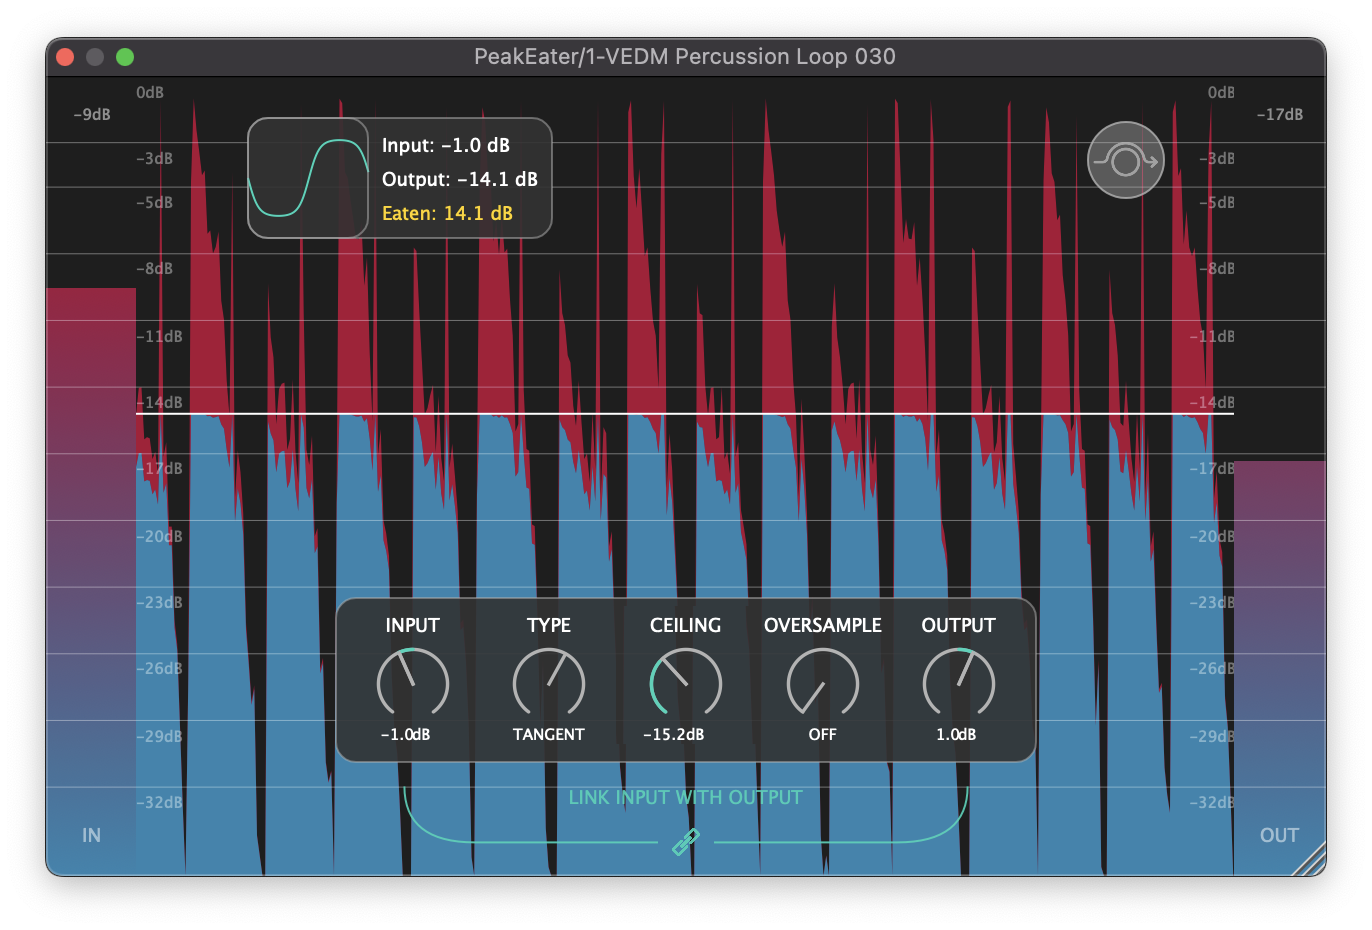
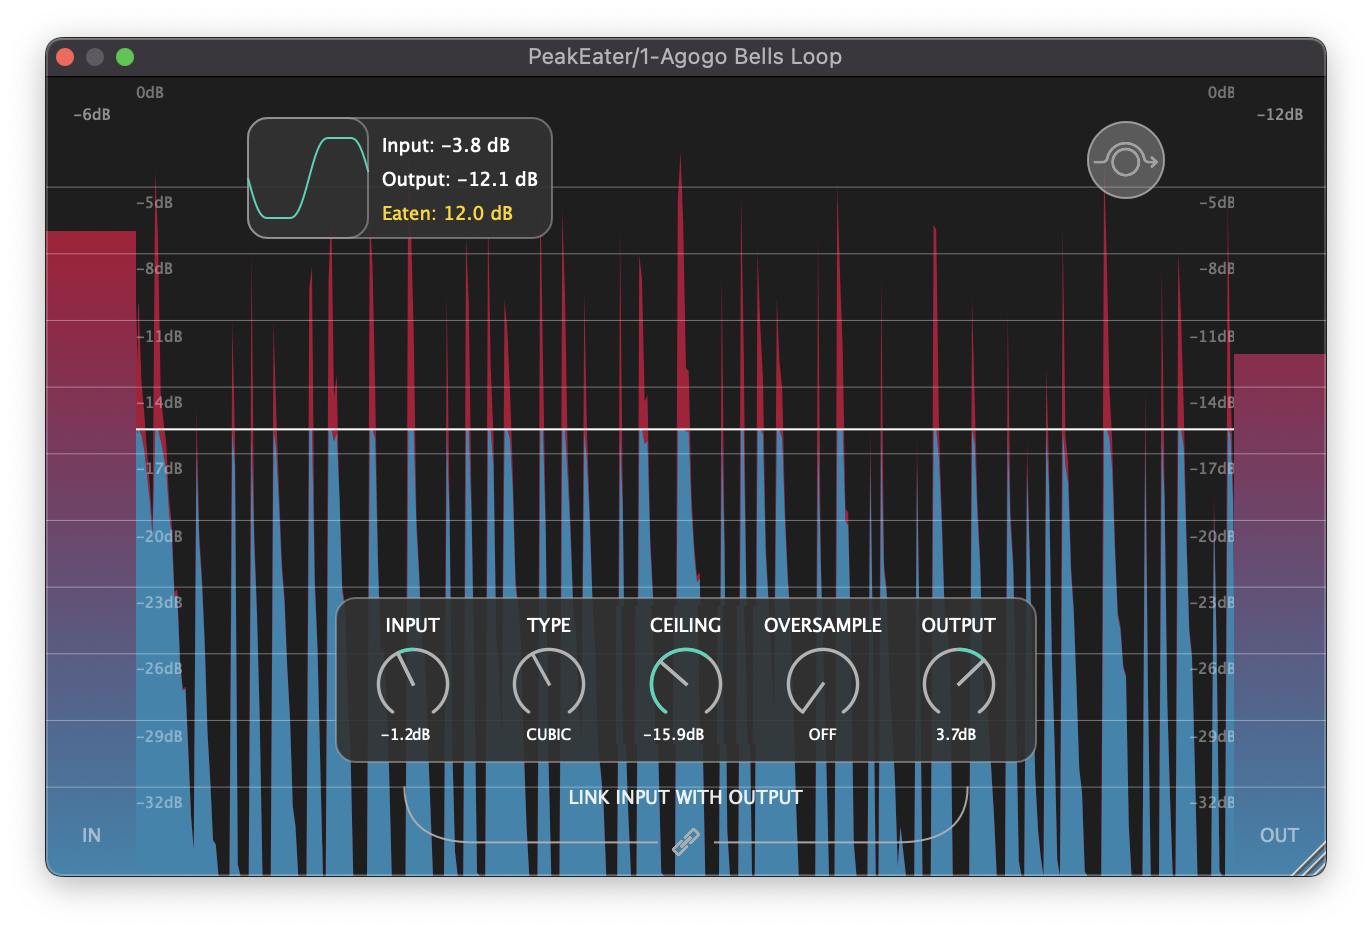
Make switchable scales

diff --git a/Source/GUIv2/clipmeter/ClipMeter.cpp b/Source/GUIv2/clipmeter/ClipMeter.cpp
@@ -46,7 +46,8 @@ float gDbToYPos (float const& dB, float const& maxY, float const& maxDb = 36.0f,
 ClipMeter::ClipMeter (std::shared_ptr<juce::AudioProcessorValueTreeState> parameters,
                       std::shared_ptr<pe::dsp::LevelMeter<float> > inputLevelMeter,
                       std::shared_ptr<pe::dsp::LevelMeter<float> > clippingLevelMeter,
-                      std::shared_ptr<pe::dsp::LevelMeter<float> > outputLevelMeter)
+                      std::shared_ptr<pe::dsp::LevelMeter<float> > outputLevelMeter,
+                      std::shared_ptr<Ticks> ticks)
 	: juce::Component()
 	, mTimer (std::bind (&ClipMeter::onTimerTick, this))
 	, mParameters (parameters)
@@ -54,6 +55,7 @@ ClipMeter::ClipMeter (std::shared_ptr<juce::AudioProcessorValueTreeState> parame
 	, mClippingLevelMeter (clippingLevelMeter)
 	, mOutputLevelMeter (outputLevelMeter)
 	, mBufferMaxSize (400)
+	, mTicks(ticks)
 {
 	for (int x = 0; x < mBufferMaxSize; x++)
 	{
@@ -80,9 +82,9 @@ void ClipMeter::paint (juce::Graphics& g)
 	g.fillAll (colourscheme::BackgroundPrimary);
 	drawBuffer (mInputBuffer, colourscheme::ForegroundSecondary, g);
 	drawBuffer (mClippingBuffer, colourscheme::ForegroundPrimary, g);
-	drawTicks (mTicks.getTicksList(), colourscheme::TextFocusLevel3, g);
+	drawTicks (mTicks->getTicksList(), colourscheme::TextFocusLevel3, g);
 	drawDbLine (*static_cast<juce::AudioParameterFloat*> (mParameters->getParameter (pe::params::ParametersProvider::getInstance().getCeiling().getId())), colourscheme::TextFocusLevel0, g);
-	drawTicksTexts (mTicks.getTicksList(), colourscheme::TextFocusLevel3, g);
+	drawTicksTexts (mTicks->getTicksList(), colourscheme::TextFocusLevel3, g);
 }
 
 void ClipMeter::drawBuffer (std::deque<float>& buffer, juce::Colour const&& colour, juce::Graphics& g)
@@ -187,7 +189,7 @@ void ClipMeter::mouseDown (juce::MouseEvent const& event)
 {
 	if (event.mods.isRightButtonDown())
 	{
-		mTicks.switchToNextTicksList();
+		mTicks->switchToNextTicksList();
 	}
 }
 } // namespace gui

diff --git a/Source/GUIv2/clipmeter/ClipMeter.h b/Source/GUIv2/clipmeter/ClipMeter.h
@@ -1,6 +1,7 @@
 #pragma once
 
 #include <deque>
+#include "../Ticks.h"
 #include <juce_audio_processors/juce_audio_processors.h>
 #include <juce_gui_basics/juce_gui_basics.h>
 
@@ -32,41 +33,12 @@ private:
 std::function<void()> mCallback;
 };
 
-class Ticks
-{
-public:
-std::vector<float>& getTicksList()
-{
-	return mTicksLists.at (mCurrentTicksList);
-}
-
-void switchToNextTicksList()
-{
-	if (mCurrentTicksList >= mTicksLists.size() - 1)
-	{
-		mCurrentTicksList = 0;
-	}
-	else
-	{
-		mCurrentTicksList++;
-	}
-}
-
-private:
-std::atomic<unsigned int> mCurrentTicksList{ 0 };
-std::vector<std::vector<float> > mTicksLists{
-	{ 0.0f, -3.0f, -5.0f, -8.0f, -11.0f, -14.0f, -17.0f, -20.0f, -23.0f, -26.0f, -29.0f, -32.0f, -36.0f },
-	{ 0.0f, -3.0f, -6.0f, -9.0f, -12.0f, -15.0f, -18.0f, -21.0f, -24.0f, -27.0f, -30.0f, -33.0f, -36.0f },
-	{ 0.0f, -5.0f, -8.0f, -11.0f, -14.0f, -17.0f, -20.0f, -23.0f, -26.0f, -29.0f, -32.0f, -36.0f },
-	{ 0.0f, -4.0f, -6.0f, -8.0f, -12.0f, -14.0f, -16.0f, -18.0f, -20.0f, -22.0f, -24.0f, -26.0f, -28.0f, -30.0f, -32.0f, -34.0f, -36.0f },
-};
-};
-
 public:
 ClipMeter (std::shared_ptr<juce::AudioProcessorValueTreeState> parameters,
            std::shared_ptr<pe::dsp::LevelMeter<float> > inputLevelMeter,
            std::shared_ptr<pe::dsp::LevelMeter<float> > clippingLevelMeter,
-           std::shared_ptr<pe::dsp::LevelMeter<float> > outputLevelMeter);
+           std::shared_ptr<pe::dsp::LevelMeter<float> > outputLevelMeter,
+           std::shared_ptr<Ticks> ticks);
 ~ClipMeter() override;
 
 void paint (juce::Graphics& g) override;
@@ -82,7 +54,7 @@ std::deque<float> mInputBuffer;
 std::deque<float> mClippingBuffer;
 std::deque<float> mOutputBuffer;
 int mBufferMaxSize;
-Ticks mTicks;
+std::shared_ptr<Ticks> mTicks;
 
 void onTimerTick();
 

diff --git a/Source/GUIv2/Ticks.h b/Source/GUIv2/Ticks.h
@@ -1,0 +1,42 @@
+#pragma once
+
+#include <vector>
+#include <atomic>
+
+namespace pe
+{
+namespace gui
+{
+class Ticks
+{
+public:
+std::vector<float>& getTicksList()
+{
+	return mTicksLists.at (mCurrentTicksList);
+}
+
+void switchToNextTicksList()
+{
+	if (mCurrentTicksList >= mTicksLists.size() - 1)
+	{
+		mCurrentTicksList = 0;
+	}
+	else
+	{
+		mCurrentTicksList++;
+	}
+}
+
+private:
+std::atomic<unsigned int> mCurrentTicksList{ 0 };
+std::vector<std::vector<float> > mTicksLists{
+	{ 0.0f, -5.0f, -8.0f, -11.0f, -14.0f, -17.0f, -20.0f, -23.0f, -26.0f, -29.0f, -32.0f, -36.0f },
+	{ 0.0f, -3.0f, -5.0f, -8.0f, -11.0f, -14.0f, -17.0f, -20.0f, -23.0f, -26.0f, -29.0f, -32.0f, -36.0f },
+	{ 0.0f, -3.0f, -6.0f, -9.0f, -12.0f, -15.0f, -18.0f, -21.0f, -24.0f, -27.0f, -30.0f, -33.0f, -36.0f },
+	{ 0.0f, -2.0f, -4.0f, -6.0f, -8.0f, -10.0f, -12.0f, -14.0f, -16.0f, -18.0f, -20.0f, -22.0f, -24.0f, -27.0f, -36.0f },
+	{ 0.0f, -4.0f, -6.0f, -8.0f, -12.0f, -14.0f, -16.0f, -18.0f, -20.0f, -22.0f, -24.0f, -26.0f, -28.0f, -30.0f, -32.0f, -34.0f, -36.0f },
+	{ 0.0f, -3.0f, -6.0f, -9.0f, -12.0f, -15.0f, -24.0f, -36.0f },
+};
+};
+} // namespace gui
+} // namespace pe

diff --git a/Source/GUIv2/CentralPanel.cpp b/Source/GUIv2/CentralPanel.cpp
@@ -7,9 +7,10 @@ namespace gui
 CentralPanel::CentralPanel (std::shared_ptr<juce::AudioProcessorValueTreeState> parameters,
                             std::shared_ptr<pe::dsp::LevelMeter<float> > inputLevelMeter,
                             std::shared_ptr<pe::dsp::LevelMeter<float> > clippingLevelMeter,
-                            std::shared_ptr<pe::dsp::LevelMeter<float> > outputLevelMeter)
+                            std::shared_ptr<pe::dsp::LevelMeter<float> > outputLevelMeter,
+                            std::shared_ptr<Ticks> ticks)
 	: juce::Component()
-	, mClipMeter (parameters, inputLevelMeter, clippingLevelMeter, outputLevelMeter)
+	, mClipMeter (parameters, inputLevelMeter, clippingLevelMeter, outputLevelMeter, ticks)
 	, mControlPanel (parameters, inputLevelMeter, clippingLevelMeter, outputLevelMeter)
 	, mLinkingPanel (parameters, inputLevelMeter, clippingLevelMeter, outputLevelMeter)
 	, mAnalyserComponent (parameters, inputLevelMeter, clippingLevelMeter, outputLevelMeter)

diff --git a/Source/GUIv2/levelmeter/LevelMeterComponent.cpp b/Source/GUIv2/levelmeter/LevelMeterComponent.cpp
@@ -64,9 +64,13 @@ float gDbToYPos (float const& dB, float const& maxY, float const& maxDb = 36.0f,
 	}
 }
 } // namespace
-LevelMeterComponent::LevelMeterComponent (std::shared_ptr<pe::dsp::LevelMeter<float> > levelMeter, std::string const& name)
+LevelMeterComponent::LevelMeterComponent (
+	std::shared_ptr<pe::dsp::LevelMeter<float> > levelMeter
+	, std::shared_ptr<Ticks> ticks
+	, std::string const& name)
 	: juce::Component()
 	, mName (name)
+	, mTicks(ticks)
 	, mMeterTimer (std::bind (&LevelMeterComponent::onTimerTick, this))
 	, mLevelMeter (levelMeter)
 	, mRange (-36.0f, 0.0f, 0.1f, 1.0f)
@@ -115,7 +119,7 @@ void LevelMeterComponent::paint (juce::Graphics& g)
 	}
 
 	// Draw level ticks
-	drawTicks ({ 0.0f, -3.0f, -5.0f, -8.0f, -11.0f, -14.0f, -17.0f, -20.0f, -23.0f, -26.0f, -29.0f, -32.0f, -36.0f }, colourscheme::TextFocusLevel3, g);
+	drawTicks (mTicks->getTicksList(), colourscheme::TextFocusLevel3, g);
 
 	// Draw dB value
 	auto const padding = 15.0f;

diff --git a/Source/GUIv2/WorkingPanel.cpp b/Source/GUIv2/WorkingPanel.cpp
@@ -9,9 +9,10 @@ WorkingPanel::WorkingPanel (std::shared_ptr<juce::AudioProcessorValueTreeState> 
                             std::shared_ptr<pe::dsp::LevelMeter<float> > clippingLevelMeter,
                             std::shared_ptr<pe::dsp::LevelMeter<float> > outputLevelMeter)
 	: juce::Component()
-	, mLeftPanel (parameters, inputLevelMeter, clippingLevelMeter, outputLevelMeter)
-	, mCentralPanel (parameters, inputLevelMeter, clippingLevelMeter, outputLevelMeter)
-	, mRightPanel (parameters, inputLevelMeter, clippingLevelMeter, outputLevelMeter)
+	, mTicks (std::make_shared<Ticks>())
+	, mLeftPanel (parameters, inputLevelMeter, clippingLevelMeter, outputLevelMeter, mTicks)
+	, mCentralPanel (parameters, inputLevelMeter, clippingLevelMeter, outputLevelMeter, mTicks)
+	, mRightPanel (parameters, inputLevelMeter, clippingLevelMeter, outputLevelMeter, mTicks)
 {
 	addAndMakeVisible (mLeftPanel);
 	addAndMakeVisible (mCentralPanel);

diff --git a/Source/GUIv2/levelmeter/LevelMeterComponent.h b/Source/GUIv2/levelmeter/LevelMeterComponent.h
@@ -1,6 +1,7 @@
 #pragma once
 
 #include "../../DSP/LevelMeter.h"
+#include "../Ticks.h"
 #include <juce_events/juce_events.h>
 #include <juce_gui_basics/juce_gui_basics.h>
 
@@ -11,7 +12,10 @@ namespace gui
 class LevelMeterComponent : public juce::Component
 {
 public:
-LevelMeterComponent (std::shared_ptr<pe::dsp::LevelMeter<float> > levelMeter, std::string const& name);
+LevelMeterComponent (
+	std::shared_ptr<pe::dsp::LevelMeter<float> > levelMeter
+	, std::shared_ptr<Ticks> ticks
+	, std::string const& name);
 ~LevelMeterComponent() override;
 
 void resized() override;
@@ -42,6 +46,7 @@ std::function<void()> mCallback;
 
 std::string mName;
 LevelMeterTimer mMeterTimer;
+std::shared_ptr<Ticks> mTicks;
 std::shared_ptr<pe::dsp::LevelMeter<float> > mLevelMeter;
 juce::NormalisableRange<float> mRange;
 juce::LinearSmoothedValue<float> mSmoothedGain;

diff --git a/Source/GUIv2/CentralPanel.h b/Source/GUIv2/CentralPanel.h
@@ -4,6 +4,7 @@
 #include <juce_gui_basics/juce_gui_basics.h>
 
 #include "../DSP/LevelMeter.h"
+#include "Ticks.h"
 #include "ControlPanel.h"
 #include "LinkingPanel.h"
 #include "analyser/AnalyserComponent.h"
@@ -20,7 +21,8 @@ public:
 CentralPanel (std::shared_ptr<juce::AudioProcessorValueTreeState> parameters,
               std::shared_ptr<pe::dsp::LevelMeter<float> > inputLevelMeter,
               std::shared_ptr<pe::dsp::LevelMeter<float> > clippingLevelMeter,
-              std::shared_ptr<pe::dsp::LevelMeter<float> > outputLevelMeter);
+              std::shared_ptr<pe::dsp::LevelMeter<float> > outputLevelMeter,
+              std::shared_ptr<Ticks> ticks);
 
 void resized() override;
 

diff --git a/Source/GUIv2/LeftPanel.h b/Source/GUIv2/LeftPanel.h
@@ -4,6 +4,7 @@
 #include <juce_gui_basics/juce_gui_basics.h>
 
 #include "../DSP/LevelMeter.h"
+#include "Ticks.h"
 #include "levelmeter/LevelMeterComponent.h"
 
 namespace pe
@@ -17,7 +18,8 @@ public:
 LeftPanel (std::shared_ptr<juce::AudioProcessorValueTreeState> parameters,
            std::shared_ptr<pe::dsp::LevelMeter<float> > inputLevelMeter,
            std::shared_ptr<pe::dsp::LevelMeter<float> > clippingLevelMeter,
-           std::shared_ptr<pe::dsp::LevelMeter<float> > outputLevelMeter);
+           std::shared_ptr<pe::dsp::LevelMeter<float> > outputLevelMeter,
+           std::shared_ptr<Ticks> ticks);
 
 void resized() override;
 void paint (juce::Graphics& g) override;

diff --git a/Source/GUIv2/RightPanel.cpp b/Source/GUIv2/RightPanel.cpp
@@ -7,9 +7,10 @@ namespace gui
 RightPanel::RightPanel (std::shared_ptr<juce::AudioProcessorValueTreeState> parameters,
                         std::shared_ptr<pe::dsp::LevelMeter<float> > inputLevelMeter,
                         std::shared_ptr<pe::dsp::LevelMeter<float> > clippingLevelMeter,
-                        std::shared_ptr<pe::dsp::LevelMeter<float> > outputLevelMeter)
+                        std::shared_ptr<pe::dsp::LevelMeter<float> > outputLevelMeter,
+                        std::shared_ptr<Ticks> ticks)
 	: juce::Component()
-	, mLevelMeter (outputLevelMeter, "OUT")
+	, mLevelMeter (outputLevelMeter, ticks, "OUT")
 {
 	addAndMakeVisible (mLevelMeter);
 }

diff --git a/Source/GUIv2/LeftPanel.cpp b/Source/GUIv2/LeftPanel.cpp
@@ -7,9 +7,10 @@ namespace gui
 LeftPanel::LeftPanel (std::shared_ptr<juce::AudioProcessorValueTreeState> parameters,
                       std::shared_ptr<pe::dsp::LevelMeter<float> > inputLevelMeter,
                       std::shared_ptr<pe::dsp::LevelMeter<float> > clippingLevelMeter,
-                      std::shared_ptr<pe::dsp::LevelMeter<float> > outputLevelMeter)
+                      std::shared_ptr<pe::dsp::LevelMeter<float> > outputLevelMeter,
+                      std::shared_ptr<Ticks> ticks)
 	: juce::Component()
-	, mLevelMeter (inputLevelMeter, "IN")
+	, mLevelMeter (inputLevelMeter, ticks, "IN")
 {
 	addAndMakeVisible (mLevelMeter);
 }

diff --git a/Source/GUIv2/RightPanel.h b/Source/GUIv2/RightPanel.h
@@ -4,6 +4,7 @@
 #include <juce_gui_basics/juce_gui_basics.h>
 
 #include "../DSP/LevelMeter.h"
+#include "Ticks.h"
 #include "levelmeter/LevelMeterComponent.h"
 
 namespace pe
@@ -17,7 +18,8 @@ public:
 RightPanel (std::shared_ptr<juce::AudioProcessorValueTreeState> parameters,
             std::shared_ptr<pe::dsp::LevelMeter<float> > inputLevelMeter,
             std::shared_ptr<pe::dsp::LevelMeter<float> > clippingLevelMeter,
-            std::shared_ptr<pe::dsp::LevelMeter<float> > outputLevelMeter);
+            std::shared_ptr<pe::dsp::LevelMeter<float> > outputLevelMeter,
+            std::shared_ptr<Ticks> ticks);
 
 void resized() override;
 
